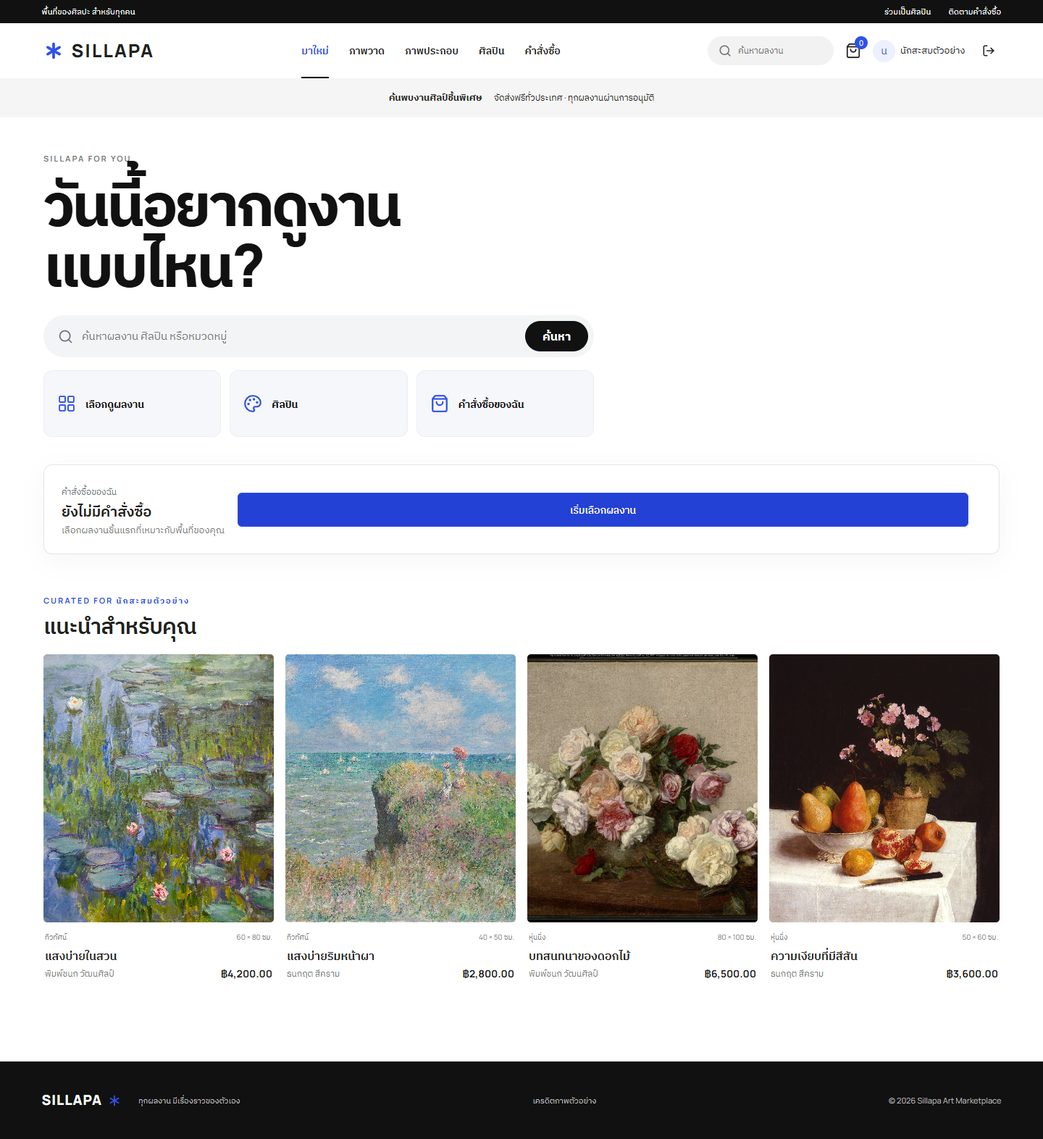
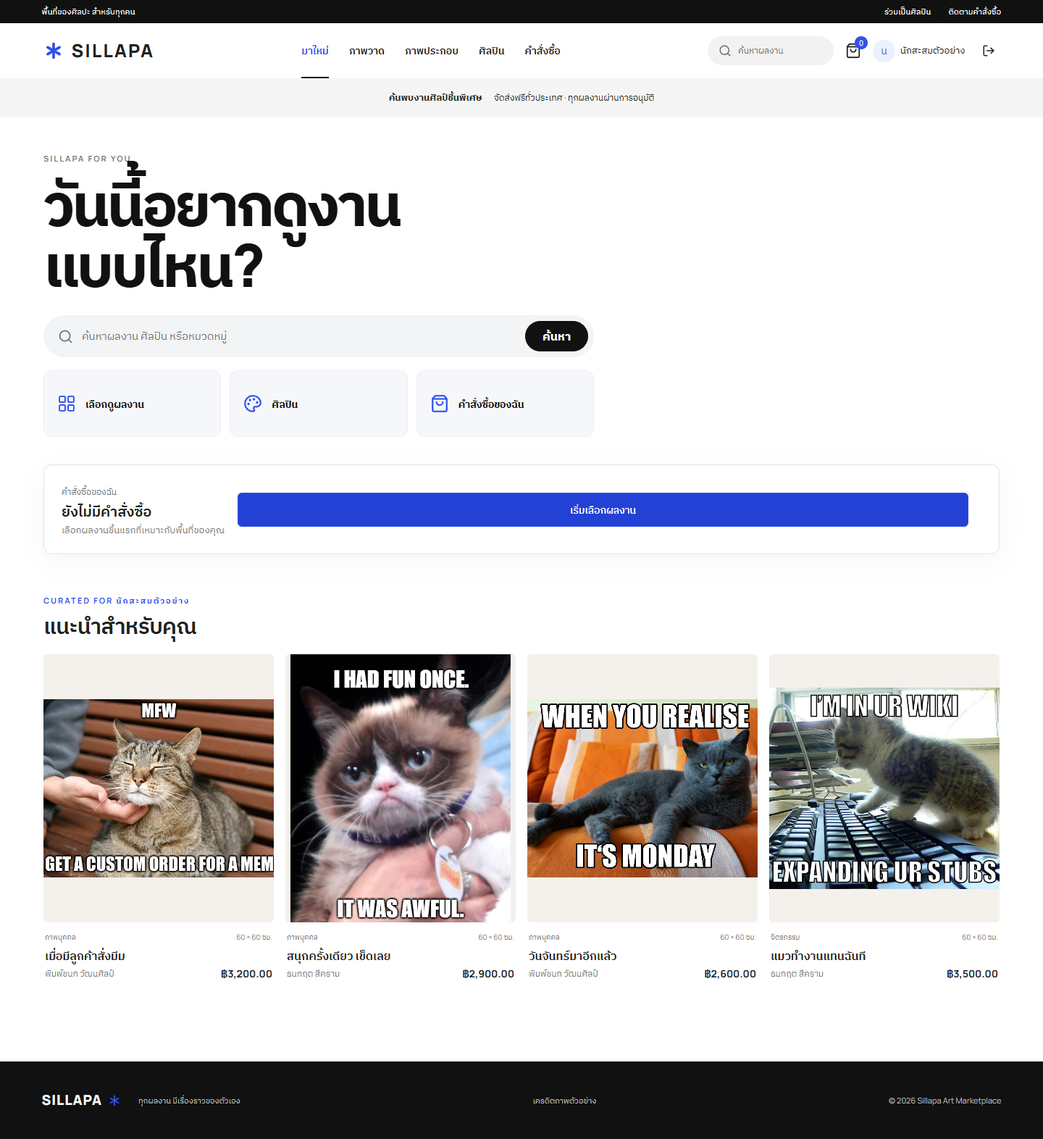
Replace sample gallery with internet memes

Changed region(s): [[0.0312, 0.5611, 0.9688, 0.8416]]

diff --git a/components/marketplace.tsx b/components/marketplace.tsx
@@ -44,11 +44,11 @@ function Gallery({artist}:{artist?:string}){
  const [q,setQ]=useState('');const [search,setSearch]=useState('');const [category,setCategory]=useState('');const [artistFilter,setArtistFilter]=useState('');const [max,setMax]=useState('');const [status,setStatus]=useState('');const [sort,setSort]=useState('newest');const [page,setPage]=useState(1);const [list,setList]=useState(false);const [filters,setFilters]=useState(false);
  useEffect(()=>{const t=setTimeout(()=>{setSearch(q);setPage(1);},300);return()=>clearTimeout(t);},[q]);
  const categories=useData('categories');const artists=useData('artists');const params=new URLSearchParams({q:search,category,artist:artist||artistFilter,max,status,sort,page:String(page)});const {data,error}=useData(`artworks?${params}`);const reset=()=>{setQ('');setCategory('');setArtistFilter('');setMax('');setStatus('');setSort('newest');setPage(1);};
- return <>{!artist&&<><section className="gallery-intro"><img src="/art/art-1.jpg" alt="ภาพวาดดอกบัว ผลงานเด่นประจำสัปดาห์"/><div className="hero-copy"><span className="hero-kicker">FEATURED THIS WEEK</span><h1>ศิลปะที่<br/>พูดแทนคุณ</h1><p>ค้นพบงานต้นฉบับจากศิลปินรุ่นใหม่<br/>ชิ้นเดียวในโลก เพื่อพื้นที่ที่เป็นคุณ</p><a className="hero-cta" href="#discover">เลือกชมผลงาน <ArrowRight size={18}/></a></div></section><div className="shop-categories" aria-label="เลือกดูตามหมวด"><a href="#discover">มาใหม่</a><a href="#discover">ภาพวาด</a><a href="#discover">ภาพประกอบ</a><a href="/artists">ศิลปินน่าจับตา</a></div></>}
+ return <>{!artist&&<><section className="gallery-intro"><img src="/art/art-1.jpg" alt="แมวมีมจากอินเทอร์เน็ต ผลงานเด่นประจำสัปดาห์"/><div className="hero-copy"><span className="hero-kicker">MEME OF THE WEEK</span><h1>มีมที่<br/>พูดแทนคุณ</h1><p>ค้นพบงานสนุกจากศิลปินรุ่นใหม่<br/>เอาไว้เติมรอยยิ้มให้พื้นที่ของคุณ</p><a className="hero-cta" href="#discover">เลือกชมผลงาน <ArrowRight size={18}/></a></div></section><div className="shop-categories" aria-label="เลือกดูตามหมวด"><a href="#discover">มาใหม่</a><a href="#discover">อาร์ตมีม</a><a href="#discover">ภาพประกอบ</a><a href="/artists">ศิลปินน่าจับตา</a></div></>}
  <section className="gallery-section" id="discover"><div className="section-heading"><div><span className="section-kicker">CURATED FOR YOU</span><h2>{artist?'ผลงานของศิลปิน':'ผลงานเด่น'}<span className="count">{data?.total??'—'}</span></h2></div><div className="view-buttons"><button className={!list?'selected':''} aria-label="มุมมองตาราง" onClick={()=>setList(false)}><LayoutGrid size={19}/></button><button className={list?'selected':''} aria-label="มุมมองรายการ" onClick={()=>setList(true)}><List size={20}/></button></div></div><div className="gallery-tools"><div className="category-tabs"><button onClick={()=>{setCategory('');setPage(1);}} className={!category?'selected':''}>ทั้งหมด</button>{categories.data?.items.map((c:Item)=><button key={c.id} onClick={()=>{setCategory(c.id);setPage(1);}} className={category===c.id?'selected':''}>{c.name}</button>)}</div><div className="tool-actions"><button className="filter-inline" onClick={()=>setFilters(!filters)}><SlidersHorizontal size={16}/> ตัวกรอง</button><label className="sort-label"><select aria-label="เรียงผลงาน" value={sort} onChange={e=>{setSort(e.target.value);setPage(1);}}><option value="newest">ใหม่ล่าสุด</option><option value="price_asc">ราคา: ต่ำไปสูง</option><option value="price_desc">ราคา: สูงไปต่ำ</option><option value="oldest">เก่าที่สุด</option></select></label></div></div>
- <button className="button filter-toggle" onClick={()=>setFilters(!filters)}><SlidersHorizontal size={17}/>ตัวกรอง</button><div className="gallery-layout"><aside className={`filters ${filters?'show':''}`}><div className="filter-heading"><strong><SlidersHorizontal size={17}/>ตัวกรอง</strong><button className="text-button" onClick={reset}>ล้างทั้งหมด</button></div><label className="field-label">ค้นหาผลงาน<div className="search-input"><Search size={17}/><input placeholder="ชื่อผลงานหรือศิลปิน" value={q} onChange={e=>setQ(e.target.value)}/></div></label>{!artist&&<label className="field-label">ศิลปิน<select value={artistFilter} onChange={e=>{setArtistFilter(e.target.value);setPage(1);}}><option value="">ศิลปินทั้งหมด</option>{artists.data?.items.map((a:Item)=><option key={a.id} value={a.id}>{a.name}</option>)}</select></label>}<label className="field-label">ช่วงราคา<select value={max} onChange={e=>{setMax(e.target.value);setPage(1);}}><option value="">ทุกช่วงราคา</option><option value="3000">ไม่เกิน ฿3,000</option><option value="5000">ไม่เกิน ฿5,000</option><option value="10000">ไม่เกิน ฿10,000</option></select></label><div className="filter-divider"/><label className="check-label"><input type="checkbox" checked={status==='approved'} onChange={e=>{setStatus(e.target.checked?'approved':'');setPage(1);}}/>เฉพาะที่พร้อมจำหน่าย</label><div className="artist-invite"><Palette size={25}/><h3>ให้ผลงานของคุณ<br/>ได้พบเจ้าของคนใหม่</h3><p>ร่วมเป็นส่วนหนึ่งของ<br/>ชุมชนศิลปิน SILLAPA</p><Link href="/register">เริ่มต้นเป็นศิลปิน <ArrowUpRight size={16}/></Link></div></aside><div className="gallery-results"><ErrorBox text={error}/>{!data&&!error?<Loading/>:data?.items.length===0?<Empty title="ไม่พบผลงานที่ค้นหา"><p>ลองเปลี่ยนคำค้นหาหรือล้างตัวกรอง</p><button className="button" onClick={reset}>ล้างตัวกรอง</button></Empty>:<div className={`art-grid ${list?'list-grid':''}`}>{data?.items.map((art:Item)=><ArtCard key={art.id} art={art} list={list}/>)}</div>}<Pagination data={data} page={page} onChange={setPage}/><p className="sample-note">ภาพตัวอย่างเป็นศิลปะสาธารณสมบัติ ชื่อศิลปินนักศึกษาและราคาเป็นข้อมูลสาธิต <Link href="/credits">ดูเครดิตภาพ</Link></p></div></div></section></>;
+ <button className="button filter-toggle" onClick={()=>setFilters(!filters)}><SlidersHorizontal size={17}/>ตัวกรอง</button><div className="gallery-layout"><aside className={`filters ${filters?'show':''}`}><div className="filter-heading"><strong><SlidersHorizontal size={17}/>ตัวกรอง</strong><button className="text-button" onClick={reset}>ล้างทั้งหมด</button></div><label className="field-label">ค้นหาผลงาน<div className="search-input"><Search size={17}/><input placeholder="ชื่อผลงานหรือศิลปิน" value={q} onChange={e=>setQ(e.target.value)}/></div></label>{!artist&&<label className="field-label">ศิลปิน<select value={artistFilter} onChange={e=>{setArtistFilter(e.target.value);setPage(1);}}><option value="">ศิลปินทั้งหมด</option>{artists.data?.items.map((a:Item)=><option key={a.id} value={a.id}>{a.name}</option>)}</select></label>}<label className="field-label">ช่วงราคา<select value={max} onChange={e=>{setMax(e.target.value);setPage(1);}}><option value="">ทุกช่วงราคา</option><option value="3000">ไม่เกิน ฿3,000</option><option value="5000">ไม่เกิน ฿5,000</option><option value="10000">ไม่เกิน ฿10,000</option></select></label><div className="filter-divider"/><label className="check-label"><input type="checkbox" checked={status==='approved'} onChange={e=>{setStatus(e.target.checked?'approved':'');setPage(1);}}/>เฉพาะที่พร้อมจำหน่าย</label><div className="artist-invite"><Palette size={25}/><h3>ให้ผลงานของคุณ<br/>ได้พบเจ้าของคนใหม่</h3><p>ร่วมเป็นส่วนหนึ่งของ<br/>ชุมชนศิลปิน SILLAPA</p><Link href="/register">เริ่มต้นเป็นศิลปิน <ArrowUpRight size={16}/></Link></div></aside><div className="gallery-results"><ErrorBox text={error}/>{!data&&!error?<Loading/>:data?.items.length===0?<Empty title="ไม่พบผลงานที่ค้นหา"><p>ลองเปลี่ยนคำค้นหาหรือล้างตัวกรอง</p><button className="button" onClick={reset}>ล้างตัวกรอง</button></Empty>:<div className={`art-grid ${list?'list-grid':''}`}>{data?.items.map((art:Item)=><ArtCard key={art.id} art={art} list={list}/>)}</div>}<Pagination data={data} page={page} onChange={setPage}/><p className="sample-note">ภาพมีมชุดนี้มาจาก Wikimedia Commons และใช้สำหรับสาธิตระบบ ชื่อศิลปินในร้านและราคาเป็นข้อมูลสมมติ <Link href="/credits">ดูรายละเอียดภาพ</Link></p></div></div></section></>;
 }
 function ArtworkDetail({id}:{id:string}){const {data,error}=useData(`artworks/${id}`);const {addToCart,cart,user}=useApp();if(error)return <ErrorBox text={error}/>;if(!data)return <Loading/>;const a=data.artwork;return <><div className="breadcrumb"><Link href="/">สำรวจผลงาน</Link><span>/</span><span>{a.title}</span></div><section className="detail-layout"><div className="detail-image"><img src={a.image} alt={a.title}/></div><div className="detail-info"><div className="eyebrow">{a.category_name}</div><h1>{a.title}</h1><Link className="artist-link" href={`/artists/${a.artist_id}`}><span className="avatar">{a.artist_name.slice(0,1)}</span><div><strong>{a.artist_name}</strong><small>{a.university||'ศิลปิน SILLAPA'}</small></div><ArrowUpRight size={19}/></Link><p className="detail-price">{money(a.price)}</p><Badge status={a.status}/><p className="description">{a.description}</p><dl className="specs"><div><dt>เทคนิค</dt><dd>{a.technique}</dd></div><div><dt>ขนาด</dt><dd>{Number(a.width)} × {Number(a.height)} ซม.</dd></div><div><dt>รูปแบบ</dt><dd>ผลงานต้นฉบับ · 1 ชิ้น</dd></div></dl><button className="button primary full" disabled={a.status!=='approved'||a.artist_id===user?.id||cart.includes(id)} onClick={()=>addToCart(id)}><ShoppingBag size={19}/>{cart.includes(id)?'อยู่ในตะกร้าแล้ว':a.status==='approved'?'เพิ่มลงตะกร้า':a.status==='reserved'?'ผลงานนี้ถูกจองแล้ว':'ยังไม่พร้อมจำหน่าย'}</button>{cart.includes(id)&&<Link className="button full" href="/cart">ไปที่ตะกร้า <ArrowRight size={17}/></Link>}<p className="trust-note"><ShieldCheck size={17}/>ผ่านการอนุมัติก่อนเผยแพร่ · ตรวจสอบการชำระเงินโดยแอดมิน</p>{a.credit&&<p className="sample-note">{a.credit} <Link href="/credits">เครดิตภาพ</Link></p>}</div></section></>;}
 function Artists(){const {data,error}=useData('artists');return <><div className="page-heading"><span className="eyebrow">MEET THE MAKERS</span><h1>เรื่องราวเบื้องหลังฝีแปรง</h1><p>รู้จักศิลปินและค้นพบมุมมองใหม่ผ่านผลงานของพวกเขา</p></div><ErrorBox text={error}/>{!data&&!error?<Loading/>:<div className="artist-grid">{data?.items.map((a:Item)=><Link className="artist-card" href={`/artists/${a.id}`} key={a.id}>{a.image?<img src={a.image} alt={`ผลงานของ ${a.name}`}/>:<div className="artist-placeholder"><Palette size={60}/></div>}<div><span className="avatar">{a.name.slice(0,1)}</span><h2>{a.name}</h2><p>{a.university}</p><p>{a.bio}</p><strong>{a.count} ผลงาน <ArrowUpRight size={17}/></strong></div></Link>)}</div>}</>;}
 function ArtistDetail({id}:{id:string}){const {data,error}=useData(`artists/${id}`);if(error)return <ErrorBox text={error}/>;if(!data)return <Loading/>;const a=data.artist;return <><section className="artist-profile"><span className="avatar large">{a.name.slice(0,1)}</span><div><span className="eyebrow">SILLAPA ARTIST</span><h1>{a.name}</h1><p>{a.university}</p><p>{a.bio||'ศิลปินคนนี้ยังไม่ได้เพิ่มประวัติ'}</p></div></section><Gallery artist={id}/></>;}
-function Credits(){const [items,setItems]=useState<Item[]>([]);useEffect(()=>{fetch('/art/attributions.json').then(r=>r.json()).then(setItems);},[]);return <div className="narrow"><div className="page-heading"><span className="eyebrow">IMAGE CREDITS</span><h1>เครดิตภาพตัวอย่าง</h1><p>ภาพสาธารณสมบัติใช้เพื่อสาธิตระบบเท่านั้น ไม่ใช่ผลงานของนักศึกษาที่แสดงในโปรไฟล์ ชื่อรายการ ราคา และขนาดเป็นข้อมูลสมมติ</p></div>{items.map(a=><div className="credit-row" key={a.id}><img src={`/art/${a.filename}`} alt={a.title}/><div><h3>{a.title}</h3><p>{a.artist} · {a.license}</p><a href={a.source_url} target="_blank" rel="noreferrer">ดูต้นฉบับและสิทธิ์การใช้งาน ↗</a></div></div>)}</div>;}
+function Credits(){const [items,setItems]=useState<Item[]>([]);useEffect(()=>{fetch('/art/attributions.json').then(r=>r.json()).then(setItems);},[]);return <div className="narrow"><div className="page-heading"><span className="eyebrow">IMAGE DETAILS</span><h1>รายละเอียดภาพตัวอย่าง</h1><p>ภาพมีมทั้งหมดนำมาจากอินเทอร์เน็ตผ่าน Wikimedia Commons ตามสัญญาอนุญาตของแต่ละภาพ ไม่ใช่ผลงานจริงของนักศึกษาที่แสดงในโปรไฟล์ ชื่อรายการ ราคา และขนาดเป็นข้อมูลสมมติ</p></div>{items.map(a=><div className="credit-row" key={a.id}><img src={`/art/${a.filename}`} alt={a.title}/><div><h3>{a.title}</h3><p>{a.artist} · {a.license}</p><a href={a.source_url} target="_blank" rel="noreferrer">ดูภาพต้นฉบับและสัญญาอนุญาต ↗</a></div></div>)}</div>;}

diff --git a/components/people.tsx b/components/people.tsx
@@ -31,7 +31,7 @@ export function AuthPage({register}:{register:boolean}) {
   catch(e:any){setError(e.message);}
   finally{setBusy(false);}
  };
- return <div className="auth-layout"><div className="auth-art"><img src="/art/art-1.jpg" alt="Water Lilies โดย Claude Monet — ภาพตัวอย่างสาธารณสมบัติ"/><div><Asterisk size={48}/><h2>Good art.<br/>Great connections.</h2><p>ให้ศิลปะเชื่อมต่อคุณกับเรื่องราวใหม่</p></div></div><div className="auth-form"><span className="eyebrow">WELCOME TO SILLAPA</span><h1>{register?'เริ่มต้นเรื่องราวของคุณ':'ยินดีต้อนรับกลับ'}</h1><p>{register?'สมัครสมาชิกเพื่อสะสมงานศิลป์หรือแบ่งปันผลงานของคุณ':'เข้าสู่ระบบเพื่อพบกับผลงานชิ้นโปรดของคุณ'}</p>{session?.googleConfigured?<a className="google-button" href="/api/auth/google"><GoogleMark/>{register?'สมัครสมาชิกด้วย Google':'เข้าสู่ระบบด้วย Google'}</a>:<div className="google-disabled"><GoogleMark/><span>Google Login ยังไม่ได้ตั้งค่า</span></div>}<div className="auth-divider"><span>หรือใช้อีเมล</span></div><form noValidate onSubmit={submit}>{register&&<label className="field-label">ชื่อที่แสดง<input aria-invalid={!!fieldErrors.name} maxLength={100} autoComplete="name" value={name} onChange={e=>{setName(e.target.value);clearField('name');}}/>{fieldErrors.name&&<span className="field-error" role="alert">{fieldErrors.name}</span>}</label>}<label className="field-label">อีเมล<input aria-invalid={!!fieldErrors.email} type="email" autoComplete="email" value={email} onChange={e=>{setEmail(e.target.value);clearField('email');}}/>{fieldErrors.email&&<span className="field-error" role="alert">{fieldErrors.email}</span>}</label><label className="field-label">รหัสผ่าน<input aria-invalid={!!fieldErrors.password} type="password" maxLength={128} autoComplete={register?'new-password':'current-password'} value={password} onChange={e=>{setPassword(e.target.value);clearField('password');}}/>{register&&!fieldErrors.password&&<small>อย่างน้อย 10 ตัวอักษร</small>}{fieldErrors.password&&<span className="field-error" role="alert">{fieldErrors.password}</span>}</label>{register&&<label className="check-label"><input type="checkbox" checked={artist} onChange={e=>setArtist(e.target.checked)}/>ต้องการเป็นศิลปิน (รอแอดมินอนุมัติสิทธิ์)</label>}<ErrorBox text={error}/><button className="button primary full" disabled={busy}>{busy?'กำลังดำเนินการ…':register?'สร้างบัญชี':'เข้าสู่ระบบ'}<ArrowRight size={18}/></button></form><p className="auth-switch">{register?'มีบัญชีอยู่แล้ว?':'ยังไม่มีบัญชี?'} <Link href={register?'/login':'/register'}>{register?'เข้าสู่ระบบ':'สมัครสมาชิก'}</Link></p>{session?.demo&&<div className="demo-box"><strong>บัญชีทดลองในเครื่อง</strong><p>รหัสผ่านทุกบัญชี: <code>ArtDemo2026!</code></p><div>{[['customer','ลูกค้า'],['artist','ศิลปิน'],['admin','แอดมิน']].map(([role,label])=><button key={role} type="button" onClick={()=>{setEmail(`${role}@demo.local`);setPassword('ArtDemo2026!');setFieldErrors({});setError('');}}>{label}</button>)}</div></div>}</div></div>;
+ return <div className="auth-layout"><div className="auth-art"><img src="/art/art-1.jpg" alt="แมวมีมจากอินเทอร์เน็ต — ภาพตัวอย่างจาก Wikimedia Commons"/><div><Asterisk size={48}/><h2>Good art.<br/>Great connections.</h2><p>ให้ศิลปะเชื่อมต่อคุณกับเรื่องราวใหม่</p></div></div><div className="auth-form"><span className="eyebrow">WELCOME TO SILLAPA</span><h1>{register?'เริ่มต้นเรื่องราวของคุณ':'ยินดีต้อนรับกลับ'}</h1><p>{register?'สมัครสมาชิกเพื่อสะสมงานศิลป์หรือแบ่งปันผลงานของคุณ':'เข้าสู่ระบบเพื่อพบกับผลงานชิ้นโปรดของคุณ'}</p>{session?.googleConfigured?<a className="google-button" href="/api/auth/google"><GoogleMark/>{register?'สมัครสมาชิกด้วย Google':'เข้าสู่ระบบด้วย Google'}</a>:<div className="google-disabled"><GoogleMark/><span>Google Login ยังไม่ได้ตั้งค่า</span></div>}<div className="auth-divider"><span>หรือใช้อีเมล</span></div><form noValidate onSubmit={submit}>{register&&<label className="field-label">ชื่อที่แสดง<input aria-invalid={!!fieldErrors.name} maxLength={100} autoComplete="name" value={name} onChange={e=>{setName(e.target.value);clearField('name');}}/>{fieldErrors.name&&<span className="field-error" role="alert">{fieldErrors.name}</span>}</label>}<label className="field-label">อีเมล<input aria-invalid={!!fieldErrors.email} type="email" autoComplete="email" value={email} onChange={e=>{setEmail(e.target.value);clearField('email');}}/>{fieldErrors.email&&<span className="field-error" role="alert">{fieldErrors.email}</span>}</label><label className="field-label">รหัสผ่าน<input aria-invalid={!!fieldErrors.password} type="password" maxLength={128} autoComplete={register?'new-password':'current-password'} value={password} onChange={e=>{setPassword(e.target.value);clearField('password');}}/>{register&&!fieldErrors.password&&<small>อย่างน้อย 10 ตัวอักษร</small>}{fieldErrors.password&&<span className="field-error" role="alert">{fieldErrors.password}</span>}</label>{register&&<label className="check-label"><input type="checkbox" checked={artist} onChange={e=>setArtist(e.target.checked)}/>ต้องการเป็นศิลปิน (รอแอดมินอนุมัติสิทธิ์)</label>}<ErrorBox text={error}/><button className="button primary full" disabled={busy}>{busy?'กำลังดำเนินการ…':register?'สร้างบัญชี':'เข้าสู่ระบบ'}<ArrowRight size={18}/></button></form><p className="auth-switch">{register?'มีบัญชีอยู่แล้ว?':'ยังไม่มีบัญชี?'} <Link href={register?'/login':'/register'}>{register?'เข้าสู่ระบบ':'สมัครสมาชิก'}</Link></p>{session?.demo&&<div className="demo-box"><strong>บัญชีทดลองในเครื่อง</strong><p>รหัสผ่านทุกบัญชี: <code>ArtDemo2026!</code></p><div>{[['customer','ลูกค้า'],['artist','ศิลปิน'],['admin','แอดมิน']].map(([role,label])=><button key={role} type="button" onClick={()=>{setEmail(`${role}@demo.local`);setPassword('ArtDemo2026!');setFieldErrors({});setError('');}}>{label}</button>)}</div></div>}</div></div>;
 }
 function GoogleMark(){return <svg aria-hidden="true" viewBox="0 0 24 24" width="20" height="20"><path fill="#4285F4" d="M21.6 12.2c0-.7-.1-1.4-.2-2H12v3.9h5.4a4.7 4.7 0 0 1-2 3v2.5h3.3c1.9-1.8 2.9-4.4 2.9-7.4"/><path fill="#34A853" d="M12 22c2.7 0 5-.9 6.7-2.4l-3.3-2.5c-.9.6-2.1 1-3.4 1a5.9 5.9 0 0 1-5.5-4.1H3.1v2.6A10 10 0 0 0 12 22"/><path fill="#FBBC05" d="M6.5 14a6 6 0 0 1 0-3.9V7.4H3.1a10 10 0 0 0 0 9.2z"/><path fill="#EA4335" d="M12 6a5.4 5.4 0 0 1 3.8 1.5l2.9-2.9A9.7 9.7 0 0 0 3.1 7.4l3.4 2.7A5.9 5.9 0 0 1 12 6"/></svg>}
 export function ProfilePage(){const {user,session,refreshSession,notify}=useApp();const [error,setError]=useState('');const [busy,setBusy]=useState(false);if(!session)return <Loading/>;if(!user)return <div className="empty"><h2>กรุณาเข้าสู่ระบบก่อน</h2><Link className="button primary" href="/login">เข้าสู่ระบบ</Link></div>;return <div className="narrow"><div className="page-heading"><span className="eyebrow">YOUR SPACE</span><h1>โปรไฟล์ของคุณ</h1><Link className="button" href="/addresses">ที่อยู่ของฉัน →</Link><p>{user.email} · {{admin:'ผู้ดูแลระบบ',staff:'ศิลปิน',customer:'ลูกค้า'}[user.role as string]}</p></div><form noValidate className="panel form-grid" onSubmit={async e=>{e.preventDefault();setBusy(true);setError('');const f=new FormData(e.currentTarget);try{await send('profile',{name:f.get('name'),bio:f.get('bio'),university:f.get('university'),artist_requested:f.get('artist_requested')==='on'},'PATCH');await refreshSession();notify('บันทึกโปรไฟล์แล้ว');}catch(e:any){setError(e.message);}finally{setBusy(false);}}}><label className="field-label">ชื่อที่แสดง<input name="name" defaultValue={user.name} required minLength={2} maxLength={100}/></label><label className="field-label">คณะ / มหาวิทยาลัย<input name="university" defaultValue={user.university} maxLength={150}/></label><label className="field-label span-2">แนะนำตัว<textarea name="bio" rows={5} maxLength={1000} defaultValue={user.bio}/></label>{user.role==='customer'&&<label className="check-label span-2"><input name="artist_requested" type="checkbox" defaultChecked={user.artist_requested}/>ขอเปิดโปรไฟล์ศิลปินและอัปโหลดผลงาน (รอแอดมินอนุมัติ)</label>}<div className="span-2"><ErrorBox text={error}/><button className="button primary" disabled={busy}><Check size={18}/>{busy?'กำลังบันทึก…':'บันทึกโปรไฟล์'}</button></div></form></div>;}

diff --git a/lib/seed.ts b/lib/seed.ts
@@ -1,6 +1,37 @@
 import type { DB } from './db';
 import { hashPassword } from './password';
 import { randomBytes } from 'node:crypto';
+
+const samplePieces = [
+  ['เมื่อมีลูกค้าสั่งมีม','portrait',3200,'ภาพมีมดิจิทัล',60,60,'สีหน้าของแมวเมื่อได้รับออร์เดอร์ให้ทำมีมใหม่แบบด่วนที่สุด'],
+  ['สนุกครั้งเดียว เข็ดเลย','portrait',2900,'ภาพมีมดิจิทัล',60,60,'Grumpy Cat กับประโยคประจำใจสำหรับวันที่ทุกอย่างดูสนุกเกินไป'],
+  ['วันจันทร์มาอีกแล้ว','portrait',2600,'ภาพมีมดิจิทัล',60,60,'สีหน้าของแมวที่พูดแทนใจเมื่อวันหยุดจบเร็วกว่าที่คิด'],
+  ['แมวทำงานแทนฉันที','painting',3500,'ภาพมีมดิจิทัล',60,60,'แมวคีย์บอร์ดกำลังช่วยจัดการงานที่ค้างอยู่ให้เสร็จแบบมืออาชีพ'],
+  ['โหมดอสูรแมว','portrait',3100,'ภาพมีมดิจิทัล',60,60,'เมื่อแมวธรรมดาเปิดโหมดจริงจังจนกลายเป็นเจ้าป่าในหนึ่งวินาที'],
+  ['ขอแอบดูหน่อย','portrait',2800,'ภาพถ่ายแนวมีม',60,60,'เจ้าดัชชุนด์มองผ่านรั้วด้วยสีหน้าสงสัยว่าอีกฝั่งกำลังทำอะไรกัน'],
+  ['ขอคำเดียวได้ไหม','still-life',3000,'ภาพถ่ายแนวมีม',60,60,'สายตาของน้องหมาที่พร้อมแลกทุกอย่างเพื่อคอร์นด็อกหนึ่งคำ'],
+  ['ไม่พอใจ แต่ยังน่ารัก','portrait',2400,'ภาพถ่ายแนวมีม',60,60,'แมวอ้วนหน้าบึ้งที่ยังรักษาความน่ารักไว้ได้เต็มร้อย']
+] as const;
+
+const sampleCredits = [
+  ['Jennifer Williams · CC BY-SA 2.0','https://commons.wikimedia.org/wiki/File:Cat_Meme.jpg'],
+  ['Di (they-them) · CC BY-SA 4.0','https://commons.wikimedia.org/wiki/File:Grumpy_Cat_meme_example.jpg'],
+  ['PantheraLeo1359531 · CC BY 4.0','https://commons.wikimedia.org/wiki/File:MONDAY-Meme_Dsc5436.png'],
+  ['slava / PlanespotterA320 · CC BY 2.0','https://commons.wikimedia.org/wiki/File:Expanding_ur_stubs.jpg'],
+  ['Sev6nWiki · CC BY 4.0','https://commons.wikimedia.org/wiki/File:Beast_Cat_Original_(Meme).jpg'],
+  ['mikapon · CC BY-SA 2.0','https://commons.wikimedia.org/wiki/File:Funny_dog.jpg'],
+  ['Vkoid · CC BY-SA 4.0','https://commons.wikimedia.org/wiki/File:Dog_wants_corndog.jpg'],
+  ['TyedyeBrody · CC0 1.0','https://commons.wikimedia.org/wiki/File:Gracie_Seyranian_the_chunky_cat,_she%E2%80%99s_a_funny_cat_but_she%E2%80%99s_angry.jpg']
+] as const;
+
+export async function syncSampleArt(db: DB) {
+  for (let i=0;i<samplePieces.length;i++) {
+    const [title,category,price,technique,width,height,description] = samplePieces[i];
+    const [credit,sourceUrl] = sampleCredits[i];
+    await db.query(`UPDATE art.artworks SET category_id=$1,title=$2,description=$3,technique=$4,width=$5,height=$6,price=$7,image=$8,credit=$9,source_url=$10 WHERE id=$11`,
+      [category,title,description,technique,width,height,Number(price)*100,`/art/art-${i+1}.jpg`,credit,sourceUrl,`sample-${i+1}`]);
+  }
+}
 export async function seedLocal(db: DB, remote = false) {
   if ((await db.query('SELECT id FROM art.users LIMIT 1')).length) return;
   const password = await hashPassword(remote ? randomBytes(48).toString('hex') : 'ArtDemo2026!');
@@ -13,20 +44,11 @@ export async function seedLocal(db: DB, remote = false) {
     ]) await tx.query('INSERT INTO art.users(id,email,password_hash,name,role,bio,university) VALUES($1,$2,$3,$4,$5,$6,$7)',[id,email,password,name,role,bio,university]);
     for (const [id,name] of [['painting','จิตรกรรม'],['landscape','ทิวทัศน์'],['portrait','ภาพบุคคล'],['still-life','หุ่นนิ่ง']])
       await tx.query('INSERT INTO art.categories(id,name) VALUES($1,$2)',[id,name]);
-    const pieces = [
-      ['แสงบ่ายในสวน','landscape',4200,'สีน้ำมันบนผ้าใบ',60,80],
-      ['แสงบ่ายริมหน้าผา','landscape',2800,'สีน้ำมันบนผ้าใบ',40,50],
-      ['บทสนทนาของดอกไม้','still-life',6500,'สีน้ำมันบนผ้าใบ',80,100],
-      ['ความเงียบที่มีสีสัน','still-life',3600,'สีน้ำมันบนผ้าใบ',50,60],
-      ['จังหวะของความรู้สึก','painting',5200,'สีน้ำมันบนผ้าใบ',60,80],
-      ['ภาพสะท้อนตัวตน','portrait',3900,'สีน้ำมันบนผ้าใบ',50,70],
-      ['ผลไม้ในแสงเช้า','still-life',2400,'สีน้ำมันบนผ้าใบ',40,40],
-      ['สวนในความทรงจำ','landscape',4800,'สีน้ำมันบนผ้าใบ',60,60]
-    ];
-    for (let i=0;i<pieces.length;i++) {
-      const [title,category,price,technique,width,height] = pieces[i];
+    for (let i=0;i<samplePieces.length;i++) {
+      const [title,category,price,technique,width,height,description] = samplePieces[i];
+      const [credit,sourceUrl] = sampleCredits[i];
       await tx.query(`INSERT INTO art.artworks(id,artist_id,category_id,title,description,technique,width,height,price,image,status,credit,source_url) VALUES($1,$2,$3,$4,$5,$6,$7,$8,$9,$10,$11,$12,$13)`,
-      [`sample-${i+1}`,i%2?'demo-artist2':'demo-artist',category,title,'ผลงานตัวอย่างสำหรับทดลองเลือกซื้อและจัดการร้าน ภาพประกอบเป็นศิลปะสาธารณสมบัติ ไม่ใช่ผลงานที่สร้างโดยนักศึกษาตามชื่อโปรไฟล์ ชื่อ ราคา และขนาดในรายการเป็นข้อมูลสมมติ',technique,width,height,Number(price)*100,`/art/art-${i+1}.jpg`,i===7?'pending':'approved','ภาพสาธารณสมบัติ · ดูชื่อผู้สร้างจริงและแหล่งที่มาในเครดิตภาพ','/credits'] );
+      [`sample-${i+1}`,i%2?'demo-artist2':'demo-artist',category,title,description,technique,width,height,Number(price)*100,`/art/art-${i+1}.jpg`,i===7?'pending':'approved',credit,sourceUrl] );
     }
   });
 }

diff --git a/scripts/browser-check.ts b/scripts/browser-check.ts
@@ -14,9 +14,9 @@ async function main(){
  const customer=await browser.newContext({viewport:{width:1440,height:1000}});const page=await customer.newPage();page.on('pageerror',e=>errors.push(e.message));
  await page.goto(`${origin}/register`);await page.locator('.auth-form form button').click();await expect(page.locator('.field-error')).toHaveCount(3);await expect(page.locator('.error')).toHaveCount(0);expect(await page.locator('.field-error').first().evaluate(el=>getComputedStyle(el).color)).toBe('rgb(198, 40, 40)');results.push('Invalid registration fields show calm inline red text without an alert card');
  await page.goto(origin);await expect(page.locator('.art-card')).toHaveCount(7);await page.screenshot({path:'docs/screenshots/gallery-desktop.png',fullPage:true});
- await page.getByRole('button',{name:'ตัวกรอง',exact:true}).click();await page.getByPlaceholder('ชื่อผลงานหรือศิลปิน').fill('ดอกไม้');await expect(page.locator('.art-card')).toHaveCount(1);
+ await page.getByRole('button',{name:'ตัวกรอง',exact:true}).click();await page.getByPlaceholder('ชื่อผลงานหรือศิลปิน').fill('วันจันทร์');await expect(page.locator('.art-card')).toHaveCount(1);
  await page.getByRole('button',{name:'ล้างทั้งหมด',exact:true}).click();await expect(page.locator('.art-card')).toHaveCount(7);
- await page.getByLabel('เรียงผลงาน').selectOption('price_asc');await expect(page.locator('.art-bottom strong').first()).toContainText('2,400');await page.getByRole('button',{name:'ตัวกรอง',exact:true}).click();results.push('Gallery search, reset and sorting operate in the browser');
+ await page.getByLabel('เรียงผลงาน').selectOption('price_asc');await expect(page.locator('.art-bottom strong').first()).toContainText('2,600');await page.getByRole('button',{name:'ตัวกรอง',exact:true}).click();results.push('Gallery search, reset and sorting operate in the browser');
  await page.setViewportSize({width:390,height:844});await page.screenshot({path:'docs/screenshots/gallery-mobile.png',fullPage:true});
  expect(await page.evaluate(()=>document.documentElement.scrollWidth<=innerWidth)).toBeTruthy();
  await page.getByRole('button',{name:'ตัวกรอง',exact:true}).click();await expect(page.getByPlaceholder('ชื่อผลงานหรือศิลปิน')).toBeVisible();
@@ -39,7 +39,7 @@ async function main(){
  await adminPage.goto(`${origin}/admin`);await adminPage.getByLabel('อีเมลผู้ดูแล').fill('admin@demo.local');await adminPage.getByLabel('รหัสผ่าน').fill('ArtDemo2026!');await adminPage.getByRole('button',{name:/เข้าสู่ Admin Portal/,exact:true}).click();await expect(adminPage.getByText('ยอดขายที่รับชำระแล้ว')).toBeVisible();
  await adminPage.goto(orderUrl.replace('/orders/','/admin/orders/'));await adminPage.getByRole('button',{name:'ยืนยันรับชำระเงิน',exact:true}).click();await adminPage.getByLabel('บริษัทขนส่ง / เลขติดตามพัสดุ').fill('TH Post: UI-TEST-001');await adminPage.getByRole('button',{name:'ยืนยันการจัดส่ง',exact:true}).click();await expect(adminPage.locator('.tracking')).toContainText('UI-TEST-001');
  await page.reload();await page.getByRole('button',{name:'ยืนยันว่าได้รับผลงานแล้ว',exact:true}).click();await expect(page.locator('.page-heading .badge')).toHaveText('สำเร็จ');results.push('Admin confirms payment and shipping; customer completes receipt');
- await adminPage.goto(`${origin}/admin`);await expect(adminPage.locator('.stat-card').first()).toContainText('4,200');await adminPage.screenshot({path:'docs/screenshots/dashboard-desktop.png',fullPage:true});
+ await adminPage.goto(`${origin}/admin`);await expect(adminPage.locator('.stat-card').first()).toContainText('3,200');await adminPage.screenshot({path:'docs/screenshots/dashboard-desktop.png',fullPage:true});
  await adminPage.setViewportSize({width:390,height:844});expect(await adminPage.evaluate(()=>document.documentElement.scrollWidth<=innerWidth)).toBeTruthy();await adminPage.screenshot({path:'docs/screenshots/dashboard-mobile.png',fullPage:true});results.push('Dashboard reflects the paid order and fits mobile width');
  const artist=await browser.newContext({viewport:{width:1440,height:1000}});const artistPage=await artist.newPage();artistPage.on('pageerror',e=>errors.push(e.message));
  await artistPage.goto(`${origin}/login`);await artistPage.getByRole('button',{name:'ศิลปิน',exact:true}).click();await artistPage.getByRole('button',{name:'เข้าสู่ระบบ',exact:true}).click();await expect(artistPage).toHaveURL(origin+'/');

diff --git a/lib/db.ts b/lib/db.ts
@@ -77,8 +77,10 @@ async function blobAdapter(): Promise<DB> {
   if (!stored) {
     const { seedLocal } = await import('./seed');
     await seedLocal(raw(pg,false));
-    await persist();
   }
+  const { syncSampleArt } = await import('./seed');
+  await syncSampleArt(raw(pg,false));
+  await persist();
   return db;
 }
 
@@ -97,8 +99,9 @@ export async function getDB(): Promise<DB> {
     });
     await pg.exec(schema);
     const db = adapter(pg);
-    const { seedLocal } = await import('./seed');
+    const { seedLocal, syncSampleArt } = await import('./seed');
     await seedLocal(db);
+    await syncSampleArt(db);
     return db;
   })().catch(error => { state.artDB = undefined; throw error; });
   return state.artDB;

diff --git a/README.md b/README.md
@@ -97,6 +97,6 @@ npm run test:browser
 - คำสั่งซื้อรอชำระจะจองผลงานจนกว่าจะยกเลิก ไม่มีการหมดอายุการจองอัตโนมัติในรุ่นนี้
 - ไม่มีส่งอีเมลยืนยัน/รีเซ็ตรหัสผ่าน และไม่มี gateway ตรวจสลิปอัตโนมัติ
 - ฟีเจอร์เสริมในโจทย์ (ลายน้ำ ขายไฟล์ต้นฉบับ แบ่ง commission รับงานตามสั่ง รีวิว ถูกใจ ติดตาม และแนะนำภาพ) ยังไม่รวมในรุ่นขั้นต่ำนี้
-- ภาพเริ่มต้นเป็นงานสาธารณสมบัติ/CC0 พร้อมเครดิตที่ `/credits` ชื่อสินค้า ขนาด ราคา และโปรไฟล์นักศึกษาเป็นข้อมูลสมมติ ห้ามเสนอขายภาพตัวอย่างว่าเป็นผลงานต้นฉบับของนักศึกษา
+- ภาพเริ่มต้นเป็นมีมจากอินเทอร์เน็ตผ่าน Wikimedia Commons สำหรับสาธิตระบบ รายละเอียดอยู่ที่ `/credits` ชื่อสินค้า ขนาด ราคา และโปรไฟล์นักศึกษาเป็นข้อมูลสมมติ ห้ามเสนอขายภาพตัวอย่างว่าเป็นผลงานต้นฉบับของนักศึกษา
 
 โครงสร้าง: `components/` หน้าจอ, `app/api/[...path]/route.ts` API, `lib/auth.ts` session/permissions, `lib/db.ts` ตัวอ่านและบันทึกไฟล์ JSON บน Vercel Blob

diff --git a/docs/BROWSER-RESULTS.md b/docs/BROWSER-RESULTS.md
@@ -1,6 +1,6 @@
 # Browser verification
 
-Executed: 2026-09-28T21:26:53.891Z
+Executed: 2026-10-01T16:56:47.118Z
 
 Microsoft Edge via Playwright, isolated production server/database; no actual payment.
 

diff --git a/docs/TEST-RESULTS.md b/docs/TEST-RESULTS.md
@@ -1,6 +1,6 @@
 # Integration test results
 
-Executed: 2026-09-28T20:30:10.973Z
+Executed: 2026-10-01T16:54:06.709Z
 
 Production Next.js server with isolated local test data. No live payment sent.
 
